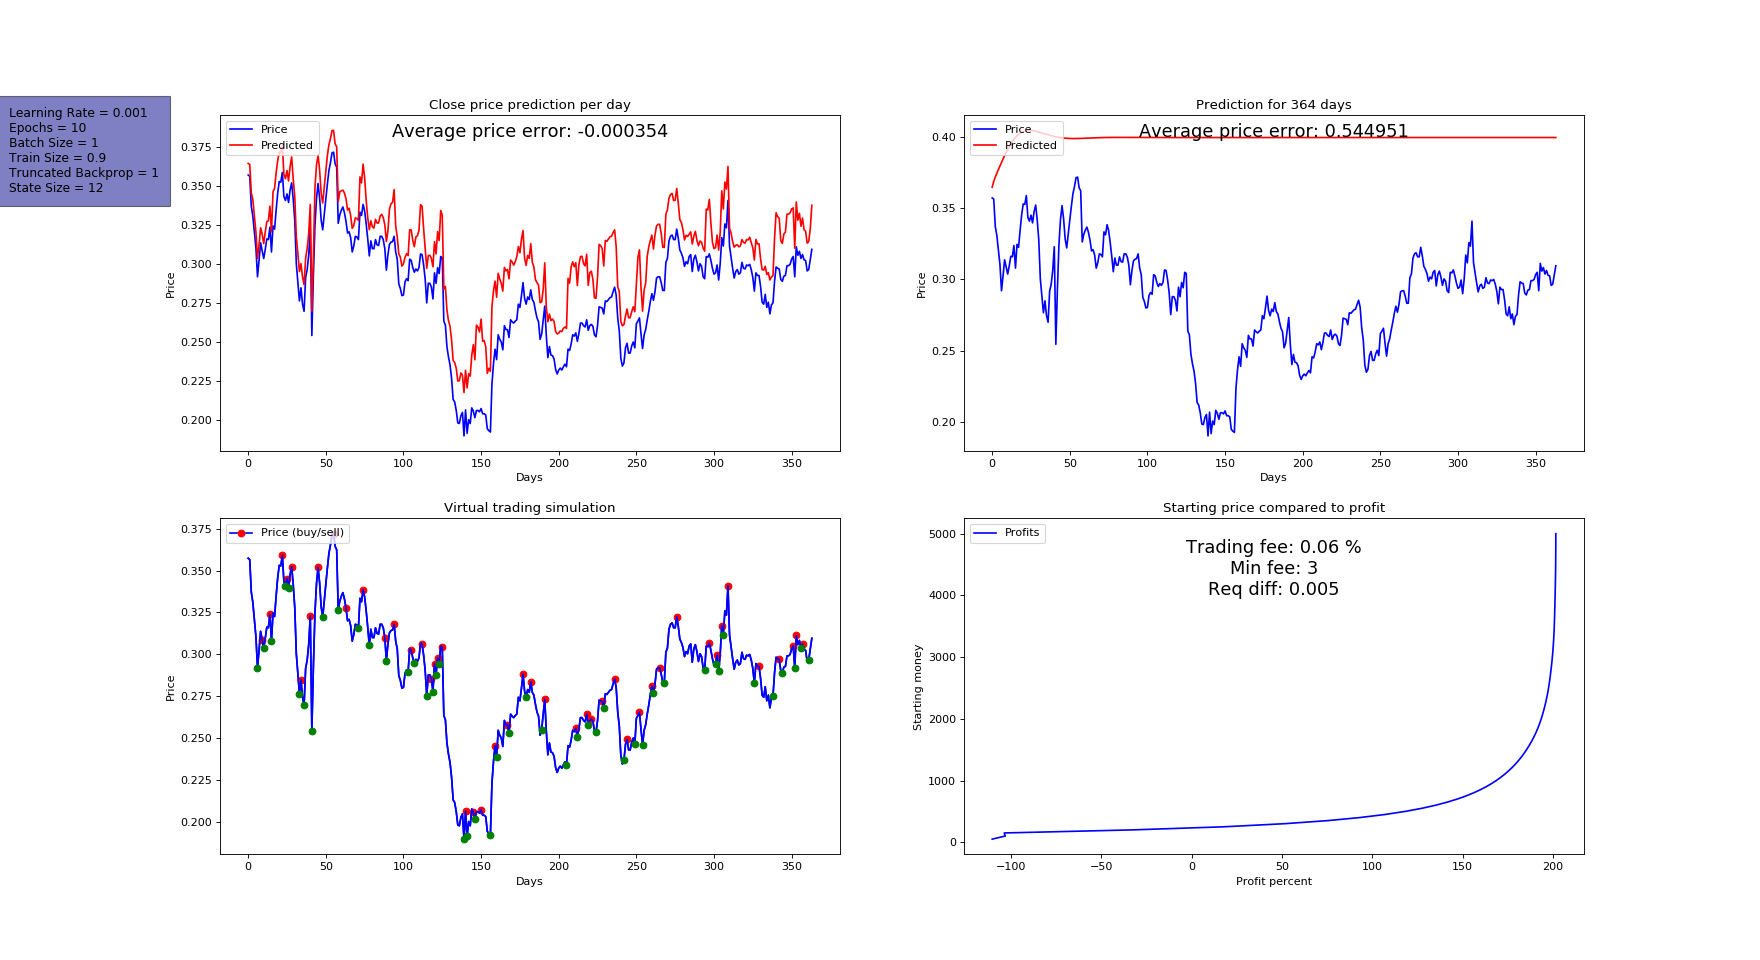
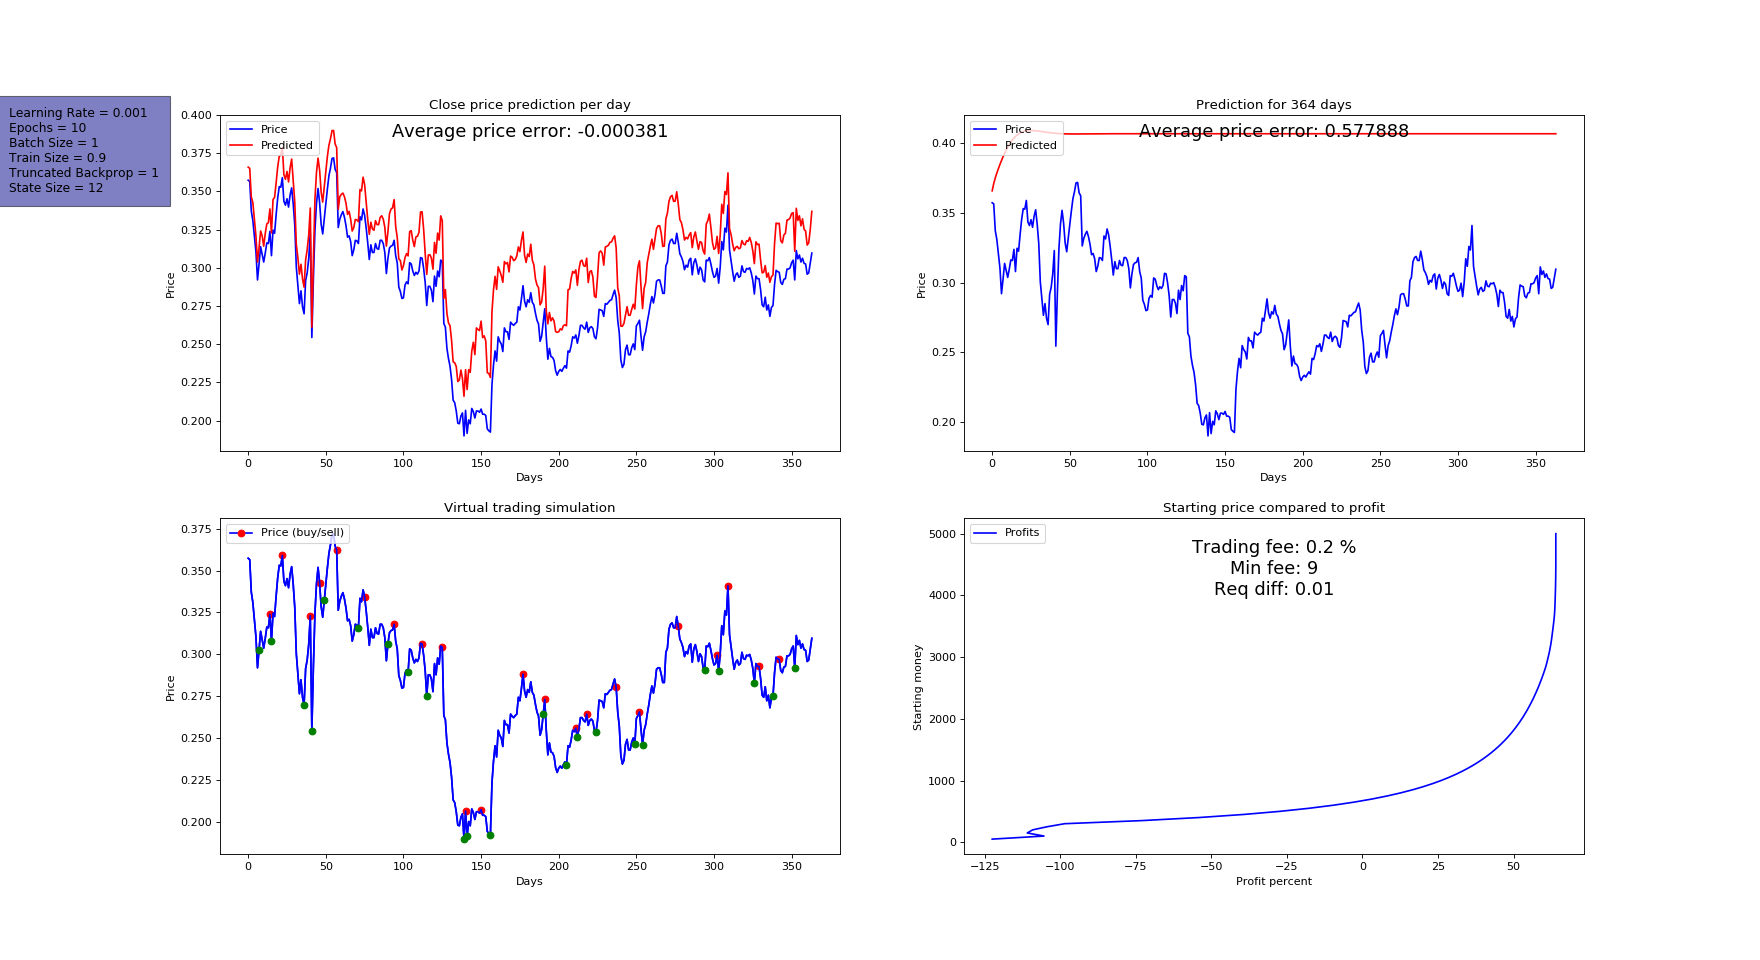
Modify simulation

diff --git a/models/tensorflow_tests/stock_predictor.py b/models/tensorflow_tests/stock_predictor.py
@@ -4,10 +4,12 @@ import numpy as np
 import matplotlib.pyplot as plt
 import matplotlib.gridspec as gridspec
 import os
+from simulation import StockTradingSimulation
 
 outfile = "prediction.png"
 outfolder = "output"
-infile = "TELIA1.HE_alltargets.csv"
+stock = "TSLA"
+infile = "{}_alltargets.csv".format(stock)
 infolder = "stock" # ("stock" / "currency")
 
 learning_rate = 0.001
@@ -31,23 +33,16 @@ def prepare_data():
     datasetTrain = datasetNorm[dataset.index < train_length]
     datasetTest = datasetNorm[dataset.index >= train_length]
 
+    ohlc_dataset = pd.read_csv('../data/{}/{}'.format(infolder, stock + ".csv"))
+    OHLC = ohlc_dataset[['Open','High','Low','Close']].as_matrix()
 
-    try:
-        xTrain = datasetTrain[['Open','High','Low','Close']].as_matrix()
-        yTrain = datasetTrain[['OpenTarget','HighTarget','LowTarget','CloseTarget']].as_matrix()
-        xTest = datasetTest[['Open','High','Low','Close']].as_matrix()
-        yTest = datasetTest[['OpenTarget','HighTarget','LowTarget','CloseTarget']].as_matrix()
-        test_prices = datasetTest['Close'].as_matrix()
-        print("Using OHLC data")
-    except:
-        xTrain = datasetTrain[['Close','MACD','Stochastics','ATR']].as_matrix()
-        yTrain = datasetTrain[['CloseTarget', 'MACDTarget', 'StochasticsTarget', 'ATRTarget']].as_matrix()
-        xTest = datasetTest[['Close','MACD','Stochastics','ATR']].as_matrix()
-        yTest = datasetTest[['CloseTarget', 'MACDTarget', 'StochasticsTarget', 'ATRTarget']].as_matrix()
-        test_prices = datasetTest['Close'].as_matrix()
-        print("Using technical indicators data")
+    xTrain = datasetTrain[['Close','MACD','Stochastics','ATR']].as_matrix()
+    yTrain = datasetTrain[['CloseTarget', 'MACDTarget', 'StochasticsTarget', 'ATRTarget']].as_matrix()
+    xTest = datasetTest[['Close','MACD','Stochastics','ATR']].as_matrix()
+    yTest = datasetTest[['CloseTarget', 'MACDTarget', 'StochasticsTarget', 'ATRTarget']].as_matrix()
+    test_prices = datasetTest['Close'].as_matrix()
 
-    return xTrain, xTest, yTrain, yTest, test_prices
+    return xTrain, xTest, yTrain, yTest, test_prices, OHLC
 
 
 def model():
@@ -194,7 +189,7 @@ def plot_prediction(day, days, test_prices, day_differences, days_differences,
     ax4.set_xlabel("Profit percent")
     ax4.set_ylabel("Starting money")
     ax4.set_title("Starting price compared to profit")
-    ax4.text(0.5, 0.85, "Trading fee: {} %\nMin fee: {}\nReq diff: {}".format(trading_fee * 100, min_fee, req_diff),
+    ax4.text(0.5, 0.85, "Trading fee: {} %\nMin fee: {}\nReq diff: {}".format(trading_fee, min_fee, req_diff),
                     fontsize=16,
                     horizontalalignment='center',
                     verticalalignment='center',
@@ -216,106 +211,27 @@ def norm_to_original(scalar):
 def norm_to_original_diff(scalar):
     return scalar * (dataset["Close"].max() - dataset["Close"].min())
 
-def simulate_profit(day_diff, predicted_prices, test_prices,
-                    starting_money=200, trading_fee=0.0006,
-                    min_fee=3, req_diff=0.01):
-
-    num_shares = 0
-    total_paid_fee = 0
-    best_profit = 0
-    worst_profit = 0
-    fee_amount = 0
-    trading_fee_ratio = 1 - trading_fee
-    current_money = starting_money
-
-    buy_list = []
-    sell_list = []
-    for count, d in enumerate(day_diff):
-        current_price = norm_to_original(test_prices[count])
-        fee_amount = 0
-        print("Day {}".format(count + 1))
-        if d < -req_diff and num_shares > 0:
-            print("State: Selling")
-            sell_list.append(count)
-            fee_amount = num_shares * current_price * trading_fee
-            if fee_amount < min_fee:
-                fee_amount = min_fee
-            current_money = num_shares * current_price - fee_amount
-            total_paid_fee += fee_amount
-            num_shares = 0
-        elif d > req_diff and num_shares == 0:
-            print("State: Buying")
-            buy_list.append(count)
-            fee_amount = current_money * trading_fee
-            if fee_amount < min_fee:
-                fee_amount = min_fee
-            total_paid_fee += fee_amount
-            num_shares = (current_money - fee_amount) / current_price
-            current_money = 0
-        else:
-            print("State: Idle")
-
-        total_worth = current_money + (num_shares * current_price)
-        total_profit = total_worth / starting_money * 100 - 100
-        if total_profit > best_profit:
-            best_profit = total_profit
-
-        if total_profit < worst_profit:
-            worst_profit = total_profit
-
-        print("Predicted diff (Normalized): {0:.3f}".format(d))
-        print("Predicted diff (Original): {0:.2f}".format(norm_to_original_diff(d)))
-        print("Predicted price (offset): {}".format(round(norm_to_original(predicted_prices[count + 1]))))
-        if count > 0:
-            print("Current price (offset): {}".format(round(norm_to_original(predicted_prices[count]))))
-
-        print("")
-        print("Current price: {}".format(round(current_price)))
-        print("Current money: {}".format(round(current_money)))
-        print("Current shares: {}".format(round(num_shares)))
-        print("Trading fee: {}".format(round(fee_amount)))
-        print("Total worth: {}".format(round(total_worth)))
-        print("Total profit: {} %".format(round(total_profit)))
-        print("")
-        print("")
-
-
-    print("Summary:")
-    print("Total paid fee: {}\nBest profit: {} %\nWorst profit: {} %\nTotal money earned: {}".format(
-        total_paid_fee,
-        best_profit,
-        worst_profit,
-        total_worth - starting_money))
-
-    print("")
-    print("")
-
-    return buy_list, sell_list, total_profit
-
 if __name__ == "__main__":
     outfile = ".".join(infile.split(".")[:-1]) + "_" + outfile
-    trainX, testX, trainY, testY, prices = prepare_data()
+    trainX, testX, trainY, testY, close_prices, OHLC = prepare_data()
     loss, train_step, prediction, last_label, last_state, placeholder_x, placeholder_y = model()
     day, days, test_day_differences, test_days_differences = train_and_test(loss, train_step, prediction,
                                                                             last_label, last_state,
                                                                             placeholder_x, placeholder_y,
                                                                             trainX, testX, trainY, testY)
 
-    trading_fee = 0.0006
-    min_fee = 3
-    req_diff = 0.005
     starting_funds = list(range(50, 5050, 50))
+    trading_fee = 0.2
+    min_fee = 9
+    req_diff = 0.01
     profits = []
-    for starting_money in starting_funds:
-        buy_list, sell_list, total_profit = simulate_profit(test_day_differences,
-                                                            day,
-                                                            prices, starting_money,
-                                                            trading_fee=trading_fee,
-                                                            min_fee=min_fee,
-                                                            req_diff=req_diff)
+    for starting_capital in starting_funds:
+        sell_list, buy_list, total_profit = StockTradingSimulation(diff=test_day_differences,
+                            ohlc=OHLC, starting_capital=starting_capital,
+                            trading_fee=trading_fee, min_fee=min_fee, req_diff=req_diff, dataset=dataset).run()
 
         profits.append(total_profit)
 
-    plot_prediction(day, days, prices, test_day_differences,
+    plot_prediction(day, days, close_prices, test_day_differences,
                     test_days_differences, buy_list, sell_list,
                     profits, starting_funds, trading_fee, min_fee, req_diff)

diff --git a/models/tensorflow_tests/simulation.py b/models/tensorflow_tests/simulation.py
@@ -1,24 +1,93 @@
 
 class StockTradingSimulation:
 
-    def __init__(self, diff, close_prices, open_prices, high_prices,
-                    low_prices, starting_capital=5000, trading_fee=0.2,
-                    min_fee=9, req_diff=0.01):
+    def __init__(self, diff, ohlc, dataset, starting_capital=5000,
+                    trading_fee=0.2, min_fee=9, req_diff=0.01):
 
         self.diff = diff
-        self.close_prices = close_prices
-        self.open_prices = open_prices
-        self.high_prices = high_prices
-        self.low_prices = low_prices
-        self.starting_capital = 5000
+        self.ohlc = ohlc[-(len(self.diff)+1):]
+        self.starting_capital = starting_capital
         self.trading_fee = trading_fee / 100
+        self.min_fee = min_fee
+        self.req_diff = req_diff
+        self.dataset = dataset
+        self.state = "Idle"
+
+        self.num_shares = 0
+        self.total_paid_fee = 0
+        self.best_profit = 0
+        self.worst_profit = 0
+        self.fee_amount = 0
+        self.current_price = 0
+        self.trading_fee_ratio = 1 - self.trading_fee
+        self.current_money = self.starting_capital
 
     def run(self):
-        for i in range(len(close_prices)):
-            pass
+        sell_list = []
+        buy_list = []
 
-    def norm_to_original_diff(self, scalar):
-        return scalar * (dataset["Close"].max() - dataset["Close"].min())
+        for i in range(len(self.diff)):
+            self.current_high_price = self._norm_to_original(self.ohlc[i + 1][1])
+            self.current_low_price = self._norm_to_original(self.ohlc[i + 1][2])
+            self.current_open_price = self._norm_to_original(self.ohlc[i + 1][0])
+            self.fee_amount = 0
+            print("Day {}".format(i + 1))
+            if self.diff[i] < -self.req_diff and self.num_shares > 0:
+                self.state = "Sell"
+                sell_list.append(i)
+                self.current_price = self.current_open_price
+                self.fee_amount = self.num_shares * self.current_price * self.trading_fee
 
-    def norm_to_original(self, scalar):
-        return scalar * (dataset["Close"].max() - dataset["Close"].min()) + dataset["Close"].min()
+                if self.fee_amount < self.min_fee:
+                    self.fee_amount = self.min_fee
+
+                self.current_money = self.num_shares * self.current_price - self.fee_amount
+                self.total_paid_fee += self.fee_amount
+                self.num_shares = 0
+
+            elif self.diff[i] > self.req_diff and self.num_shares == 0:
+                self.state = "Buy"
+                buy_list.append(i)
+                self.current_price = self.current_open_price
+                self.fee_amount = self.current_money * self.trading_fee
+
+                if self.fee_amount < self.min_fee:
+                    self.fee_amount = self.min_fee
+
+                self.total_paid_fee += self.fee_amount
+                self.num_shares = (self.current_money - self.fee_amount) / self.current_price
+                self.current_money = 0
+
+            else:
+                self.state = "Idle"
+
+
+            self.total_worth = self.current_money + (self.num_shares * self.current_low_price)
+            self.total_profit = self.total_worth / self.starting_capital * 100 - 100
+
+            if self.total_profit > self.best_profit:
+                self.best_profit = self.total_profit
+
+            if self.total_profit < self.worst_profit:
+                self.worst_profit = self.total_profit
+
+            print("State: {}".format(self.state))
+            print("Predicted diff (Normalized): {0:.3f}".format(self.diff[i]))
+            print("Predicted diff (Original): {0:.2f}".format(self._norm_to_original_diff(self.diff[i])))
+            print("")
+            print("Current price: {}".format(round(self.current_price)))
+            print("Current money: {}".format(round(self.current_money)))
+            print("Current shares: {}".format(round(self.num_shares)))
+            print("Trading fee: {}".format(round(self.fee_amount)))
+            print("Total worth: {}".format(round(self.total_worth)))
+            print("Total profit: {} %".format(round(self.total_profit)))
+            print("")
+            print("")
+
+        return sell_list, buy_list, self.total_profit
+
+    def _norm_to_original_diff(self, scalar):
+        return scalar * (self.dataset["Close"].max() - self.dataset["Close"].min())
+
+    def _norm_to_original(self, scalar):
+        return scalar * (self.dataset["Close"].max() - self.dataset["Close"].min()) + self.dataset["Close"].min()
